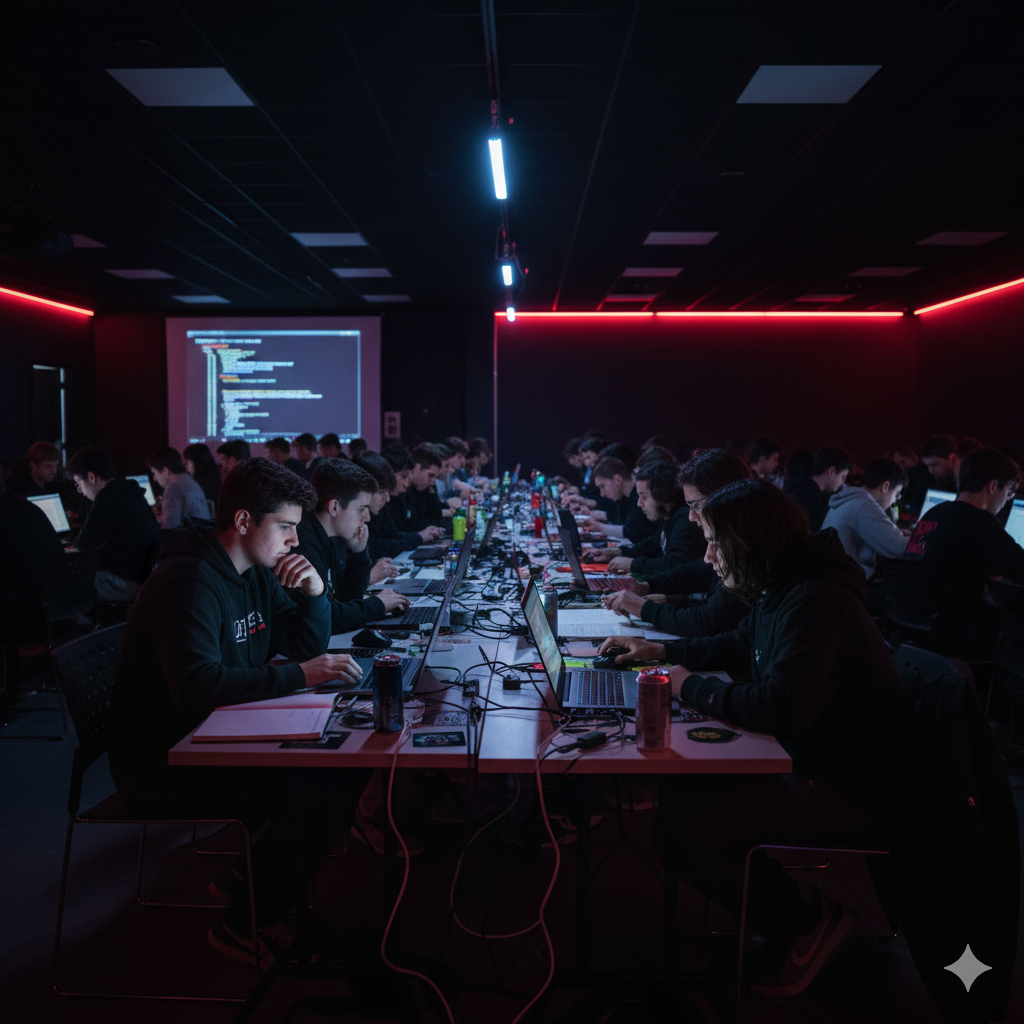
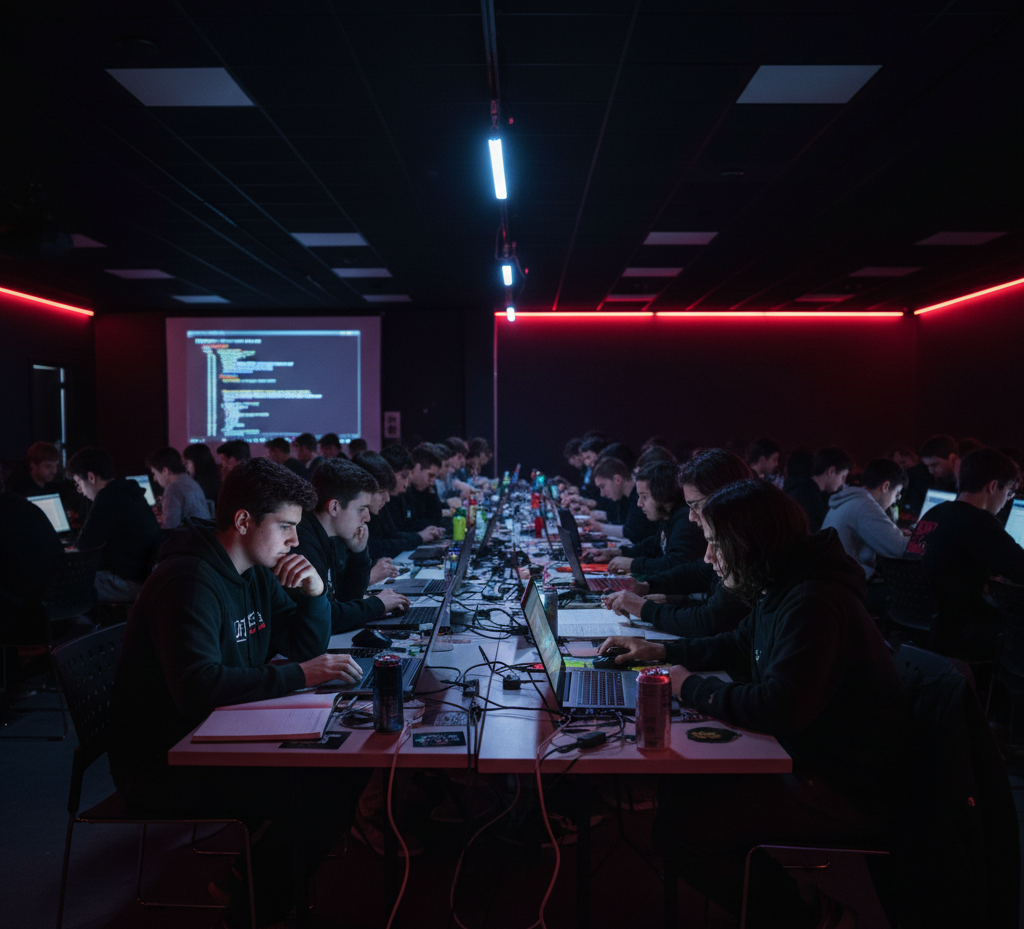
image updates

diff --git a/src/app/page.tsx b/src/app/page.tsx
@@ -482,7 +482,7 @@ export default function HomePage() {
               <div className="relative rounded-3xl overflow-hidden border-2 border-red-500/30 neon-border card-3d">
                 <div className="relative w-full h-96">
                   <Image
-                    src="/hackathon.png"
+                    src="/hackathon.jpg"
                     alt="Students collaborating during a hackathon"
                     fill
                     priority
